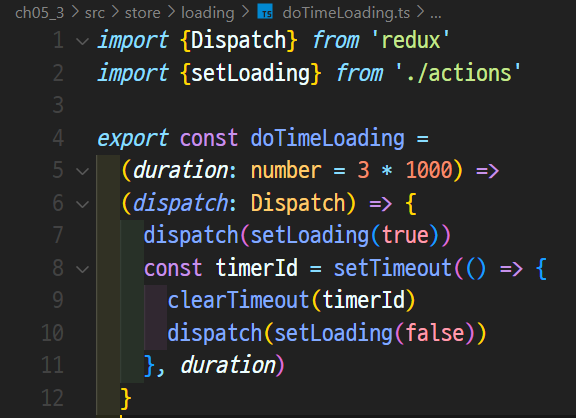
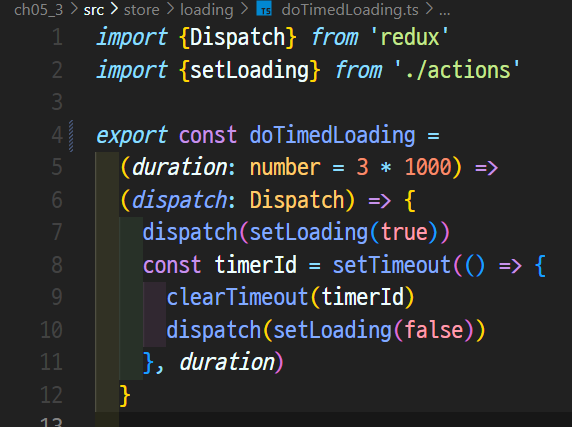
unfinished08 05.상태 관리와 리덕스 패키지_05-3.리덕스 미들웨어 이해하기

diff --git a/ch05/ch05_3/src/pages/LoadingTest.tsx b/ch05/ch05_3/src/pages/LoadingTest.tsx
@@ -1,6 +1,31 @@
 import {useCallback} from 'react'
 import {useSelector, useDispatch} from 'react-redux'
 import type {AppState} from '../store'
-import {title} from '../components'
+import {Title} from '../components'
 import {Button} from '../theme/daisyui'
 import * as L from '../store/loading'
+
+export default function LoadingTest() {
+  const dispatch = useDispatch()
+  const loading = useSelector<AppState, L.State>(({loading}) => loading)
+
+  const doTimedLoading = useCallback(() => {
+    dispatch<any>(L.doTimedLoading(1000))
+  }, [dispatch])
+
+  return (
+    <section className="mt-4">
+      <Title>Loading</Title>
+      <div className="mt-4">
+        <div className="flex justify-center mt-4">
+          <Button 
+            className="btn-sm btn-soft btn-secondary" 
+            onClick={doTimedLoading} 
+            disabled={loading}>
+            DO TIMED LOADING
+          </Button>
+        </div>
+      </div>
+    </section>
+  )
+}

diff --git a/ch05/ch05_3/src/App.tsx b/ch05/ch05_3/src/App.tsx
@@ -10,9 +10,9 @@ export default function App() {
   return (
     <ReduxProvider store={store}>
       {/* <FetchTest />
-      <ErrorMessageTest />
-      <LoadingTest /> */}
-      <LoggerTest />
+      <ErrorMessageTest /> */}
+      <LoadingTest />
+      {/* <LoggerTest /> */}
     </ReduxProvider>
   )
 }

diff --git a/ch05/ch05_3/src/store/loading/doTimedLoading.ts b/ch05/ch05_3/src/store/loading/doTimedLoading.ts
@@ -1,7 +1,7 @@
 import {Dispatch} from 'redux'
 import {setLoading} from './actions'
 
-export const doTimeLoading = 
+export const doTimedLoading = 
   (duration: number = 3 * 1000) =>
   (dispatch: Dispatch) => {
     dispatch(setLoading(true))
